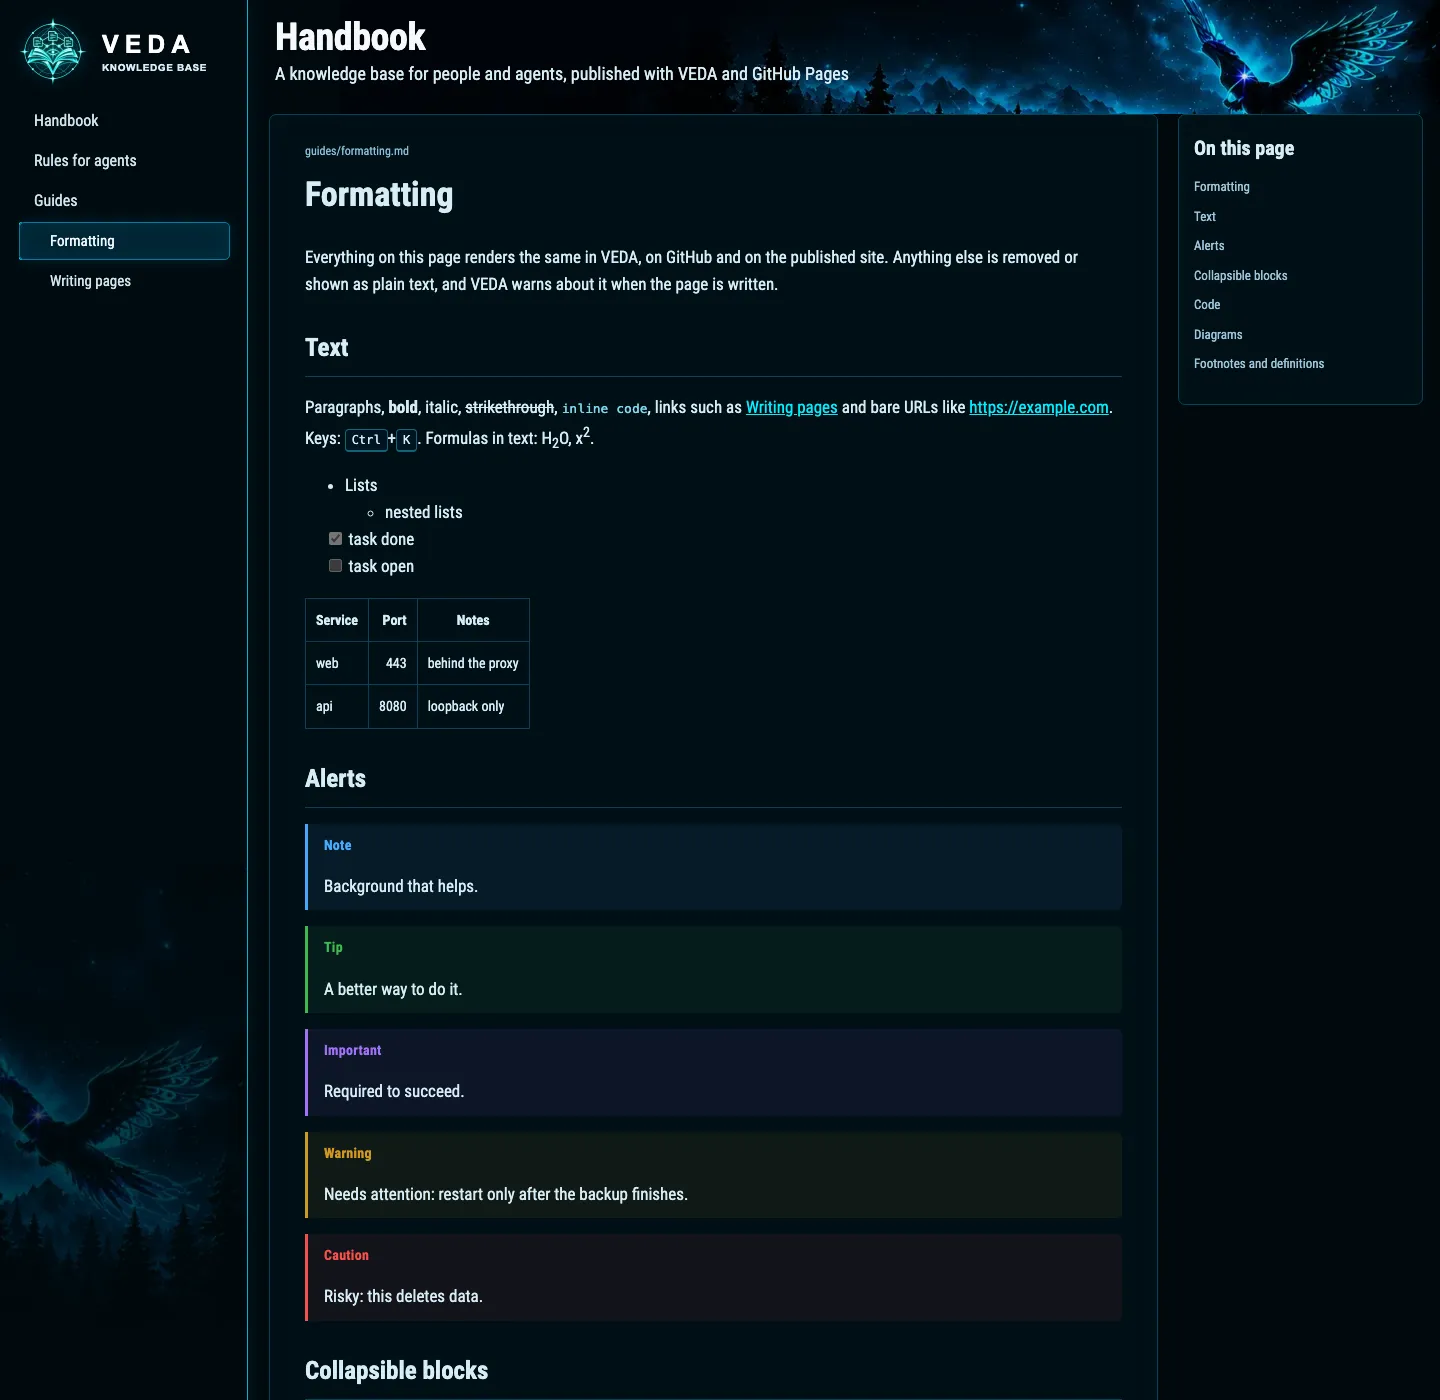
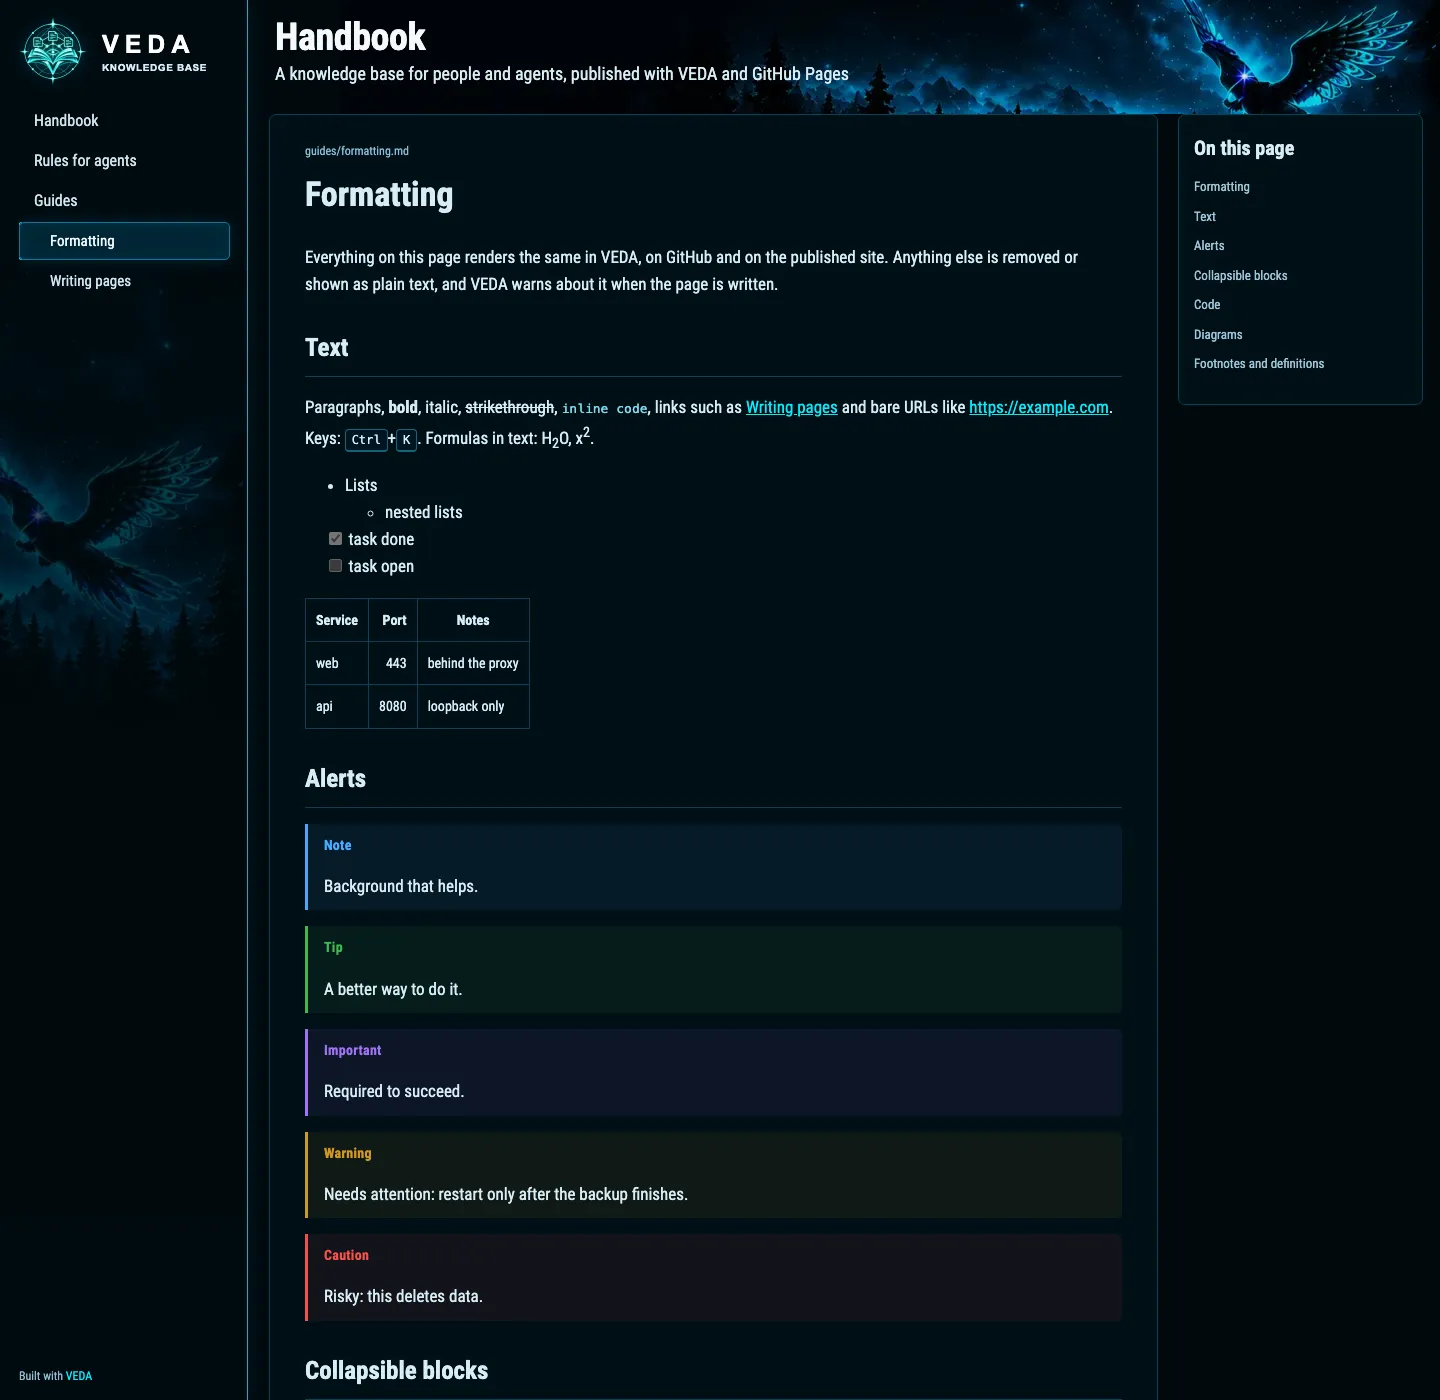
Pin the template's VEDA version and link the live Pages demo

Changed region(s): [[0.0, 0.7371, 0.1562, 0.8907], [0.0, 0.3071, 0.1562, 0.4607], [0.0312, 0.9829, 0.0625, 1.0]]

diff --git a/docs/static-site.md b/docs/static-site.md
@@ -11,6 +11,10 @@ Condensed, the forest header, the article and "On this page" panels and the
 same code colours. A sidebar lists the pages; on a phone it becomes a
 "Pages" menu in the header, and the outline is hidden below 1100 px.
 
+A live example built from [`examples/wiki-template`](../examples/wiki-template/):
+<https://mesteriis.github.io/veda-wiki-demo/> (repository
+[Mesteriis/veda-wiki-demo](https://github.com/Mesteriis/veda-wiki-demo)).
+
 ![Static site on a desktop](images/static-site-desktop.webp)
 
 <img src="images/static-site-mobile.webp" alt="Static site on a phone" width="300">
@@ -53,8 +57,8 @@ without a frontend step.
 repository: `veda.yaml`, `README.md`, `AGENTS.md`, a guide that shows every
 supported construct and `.github/workflows/pages.yml`. To publish a wiki:
 
-1. Copy `.github/workflows/pages.yml` into the repository and set
-   `VEDA_VERSION` to a VEDA commit or tag.
+1. Copy `.github/workflows/pages.yml` into the repository. Its
+   `VEDA_VERSION` is pinned to a VEDA commit; move it forward deliberately.
 2. In the repository settings, set Pages → Source to GitHub Actions.
 3. Push to `main`; the workflow installs `veda-site`, exports the checkout with
    `--strict` and deploys the result.
